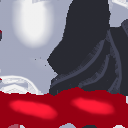
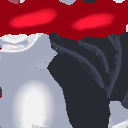
Fixed issues with textures

diff --git a/src/player/playerBody.ts b/src/player/playerBody.ts
@@ -1,4 +1,4 @@
-import { Color, MeshStandardMaterial, Object3D, SkinnedMesh, TextureLoader } from "three";
+import { Color, MeshBasicMaterial, MeshStandardMaterial, Object3D, SkinnedMesh, TextureLoader } from "three";
 
 import { IPartsManager } from "../iPartsManager";
 
@@ -79,6 +79,8 @@ export class PlayerBody implements IPartsManager<SkinnedMesh> {
         if (hideAll) {
             this.setVisibleForAllParts(!hideAll);
         }
+
+        this.resetMaterial();
     }
 
     public getCore(): Object3D {
@@ -91,6 +93,28 @@ export class PlayerBody implements IPartsManager<SkinnedMesh> {
 
     public getPartByName(name: string): SkinnedMesh {
         return this._core.getObjectByName(name) as SkinnedMesh;
+    }
+
+    public resetMaterial(): void {
+        for (const child of this._core.children) {
+            const oldMaterial =  (child as SkinnedMesh).material as MeshStandardMaterial;
+            const material = new MeshBasicMaterial({
+                color: oldMaterial.color,
+                opacity: oldMaterial.opacity,
+                map: oldMaterial.map,
+                aoMap: oldMaterial.aoMap,
+                aoMapIntensity: oldMaterial.aoMapIntensity,
+                alphaMap: oldMaterial.alphaMap,
+                envMap: oldMaterial.envMap,
+                refractionRatio: oldMaterial.refractionRatio,
+                wireframe: oldMaterial.wireframe,
+                wireframeLinewidth: oldMaterial.wireframeLinewidth,
+                skinning: oldMaterial.skinning,
+                morphTargets: oldMaterial.morphTargets
+            });
+
+            (child as SkinnedMesh).material = material;
+        }
     }
 
     public setVisibleForAllParts(value: boolean): void {
@@ -107,20 +131,20 @@ export class PlayerBody implements IPartsManager<SkinnedMesh> {
 
     public changeTextureColor(elementName: string, color: Color | number | string): void {
         const element = this.getPartByName(`${elementName}`);
-        let material: MeshStandardMaterial = null;
+        let material: MeshBasicMaterial = null;
 
-        if (element.material as MeshStandardMaterial) {
-            material = element.material as MeshStandardMaterial;
-            material.emissive.set(new Color(color));
+        if (element.material as MeshBasicMaterial) {
+            material = element.material as MeshBasicMaterial;
+            material.color.set(new Color(color));
         }
     }
 
     public changeTexture(elementName: string, fullpath: string): void {
         const element = this.getPartByName(`${elementName}`);
-        let material: MeshStandardMaterial = null;
+        let material: MeshBasicMaterial = null;
 
-        if (element.material as MeshStandardMaterial) {
-            material = element.material as MeshStandardMaterial;
+        if (element.material as MeshBasicMaterial) {
+            material = element.material as MeshBasicMaterial;
         }
 
         if (!material || !this._textureLoader) {

diff --git a/src/player/tennisPlayer.ts b/src/player/tennisPlayer.ts
@@ -1,4 +1,4 @@
-import { AnimationMixer, MathUtils, Object3D, Raycaster, TextureLoader, Vector2 } from "three";
+import { AnimationMixer, MathUtils, MeshBasicMaterial, MeshStandardMaterial, Object3D, Raycaster, SkinnedMesh, TextureLoader, Vector2 } from "three";
 import { GLTF } from "three/examples/jsm/loaders/GLTFLoader";
 
 import { ExtendedScene } from "../extendedScene";
@@ -94,14 +94,14 @@ export class TennisPlayer implements IPartsManager<Object3D> {
 
     public constructor(gltf: GLTF, gender: string, loader: TextureLoader) {
         this._core = gltf;
-
+        
         this.setVisibleForAllParts(false);
         this._body = new PlayerBody(this.getPartByName(gender));
         this._body.getCore().visible = true;
         this._racket = this.getPartByName("Racket");
         this._tennisBall = this.getPartByName("Tennis_ball");
-        this._tennisBall.visible = true;
         this._racket.visible = true;
+        this.resetMaterial();
 
         const config = TennisPlayer.getConfigByGender(gender);
         this._body.setLoader(loader);
@@ -141,7 +141,32 @@ export class TennisPlayer implements IPartsManager<Object3D> {
         return this._core.scene.getObjectByName(name);
     }
 
+    public resetPartMaterial(part: SkinnedMesh): void {
+        const oldMaterial =  part.material as MeshStandardMaterial;
+        const material = new MeshBasicMaterial({
+            color: oldMaterial.color,
+            opacity: oldMaterial.opacity,
+            map: oldMaterial.map,
+            aoMap: oldMaterial.aoMap,
+            aoMapIntensity: oldMaterial.aoMapIntensity,
+            alphaMap: oldMaterial.alphaMap,
+            envMap: oldMaterial.envMap,
+            refractionRatio: oldMaterial.refractionRatio,
+            wireframe: oldMaterial.wireframe,
+            wireframeLinewidth: oldMaterial.wireframeLinewidth,
+            skinning: oldMaterial.skinning,
+            morphTargets: oldMaterial.morphTargets
+        });
+
+        part.material = material;
+    }
+    public resetMaterial(): void {
+        this.resetPartMaterial(this._racket as SkinnedMesh);
+        this.resetPartMaterial(this._tennisBall as SkinnedMesh);
+    }
+
     public playAnimation(animName: string): void {
+        this._tennisBall.visible = animName === GlobalConfig.animationsPool[1];
         const scene = this.getParent();
 
         if (!this._mixer) {

diff --git a/src/main.css b/src/main.css
@@ -165,27 +165,39 @@ input[type=range]::-moz-range-thumb {
     -moz-transition: border 1000ms ease;
     transition: border 1000ms ease;
 }
-.range.black::-webkit-slider-thumb,
+.range.black::-webkit-slider-thumb {
+    border-color: #252525;
+}
 .range.black::-moz-range-thumb {
     border-color: #252525;
 }
-.range.dark-brown::-webkit-slider-thumb,
+.range.dark-brown::-webkit-slider-thumb {
+    border-color: #4f1b02;
+}
 .range.dark-brown::-moz-range-thumb {
     border-color: #4f1b02;
 }
-.range.brown::-webkit-slider-thumb,
+.range.brown::-webkit-slider-thumb {
+    border-color: #662404;
+}
 .range.brown::-moz-range-thumb {
     border-color: #662404;
 }
-.range.light-brown::-webkit-slider-thumb,
+.range.light-brown::-webkit-slider-thumb {
+    border-color: #f15c13;
+}
 .range.light-brown::-moz-range-thumb {
     border-color: #f15c13;
 }
-.range.yellow::-webkit-slider-thumb,
+.range.yellow::-webkit-slider-thumb {
+    border-color: #eff34e;
+}
 .range.yellow::-moz-range-thumb {
     border-color: #eff34e;
 }
-.range.light-yellow::-webkit-slider-thumb,
+.range.light-yellow::-webkit-slider-thumb {
+    border-color: #e1df80;
+}
 .range.light-yellow::-moz-range-thumb {
     border-color: #e1df80;
 }

diff --git a/src/extendedScene.ts b/src/extendedScene.ts
@@ -110,6 +110,10 @@ export class ExtendedScene extends Scene {
     public initBackgroundMusic(backgroundMusicParams: IBackgroundMusicParams): void {
         const sound = new Audio(this._audioListener);
         const audioLoader = new AudioLoader();
+        
+        document.addEventListener("click", () => {
+            sound.context.resume();
+        });
 
         audioLoader.load(require("../assets/sounds/Main_menu_musics_1.ogg"), (buffer) => {
             sound.setBuffer(buffer);

diff --git a/src/main.ts b/src/main.ts
@@ -37,7 +37,7 @@ class Main {
             gltf.scene.name = TennisPlayer.playerName;
             const tennisPlayer = new TennisPlayer(gltf, TennisPlayerGender.n_girl, scene.getTextureLoader());
             gltf.scene.userData = tennisPlayer;
-            tennisPlayer.playAnimation("main_menu_idle_type_1");
+            tennisPlayer.playAnimation("main_menu_idle_type_2");
         });
 
         scene.addTexture(require("../assets/2D/char_platform.png"), (material) => {

diff --git a/src/iPartsManager.ts b/src/iPartsManager.ts
@@ -1,4 +1,5 @@
 export interface IPartsManager<T> {
+    resetMaterial(): void;
     getPartByName(name: string): T;
     setVisibleForAllParts(value: boolean): void;
     unhideParts(partsNames: string[]): void;
